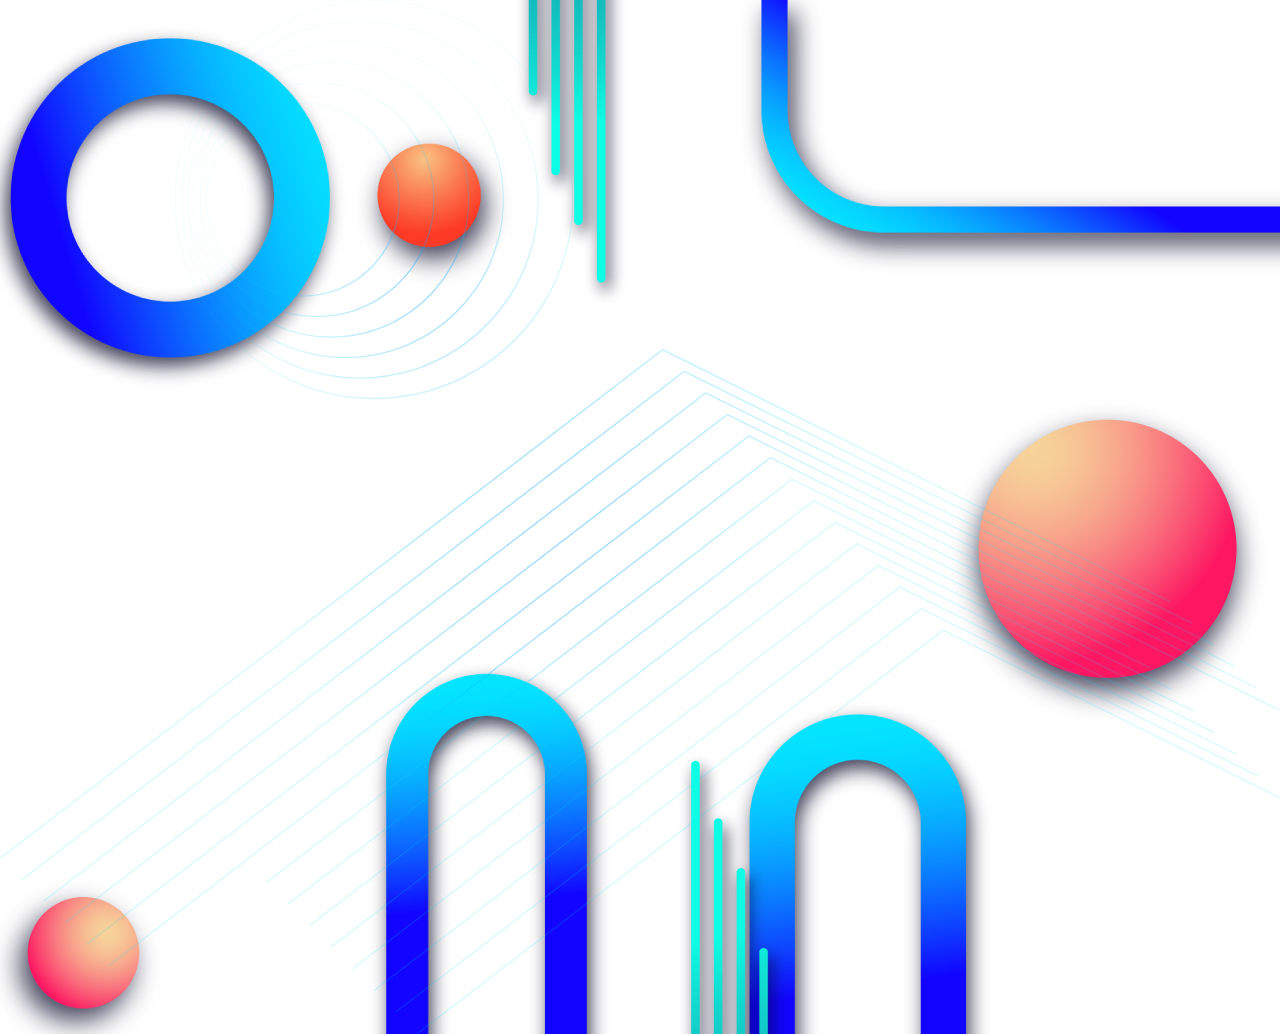
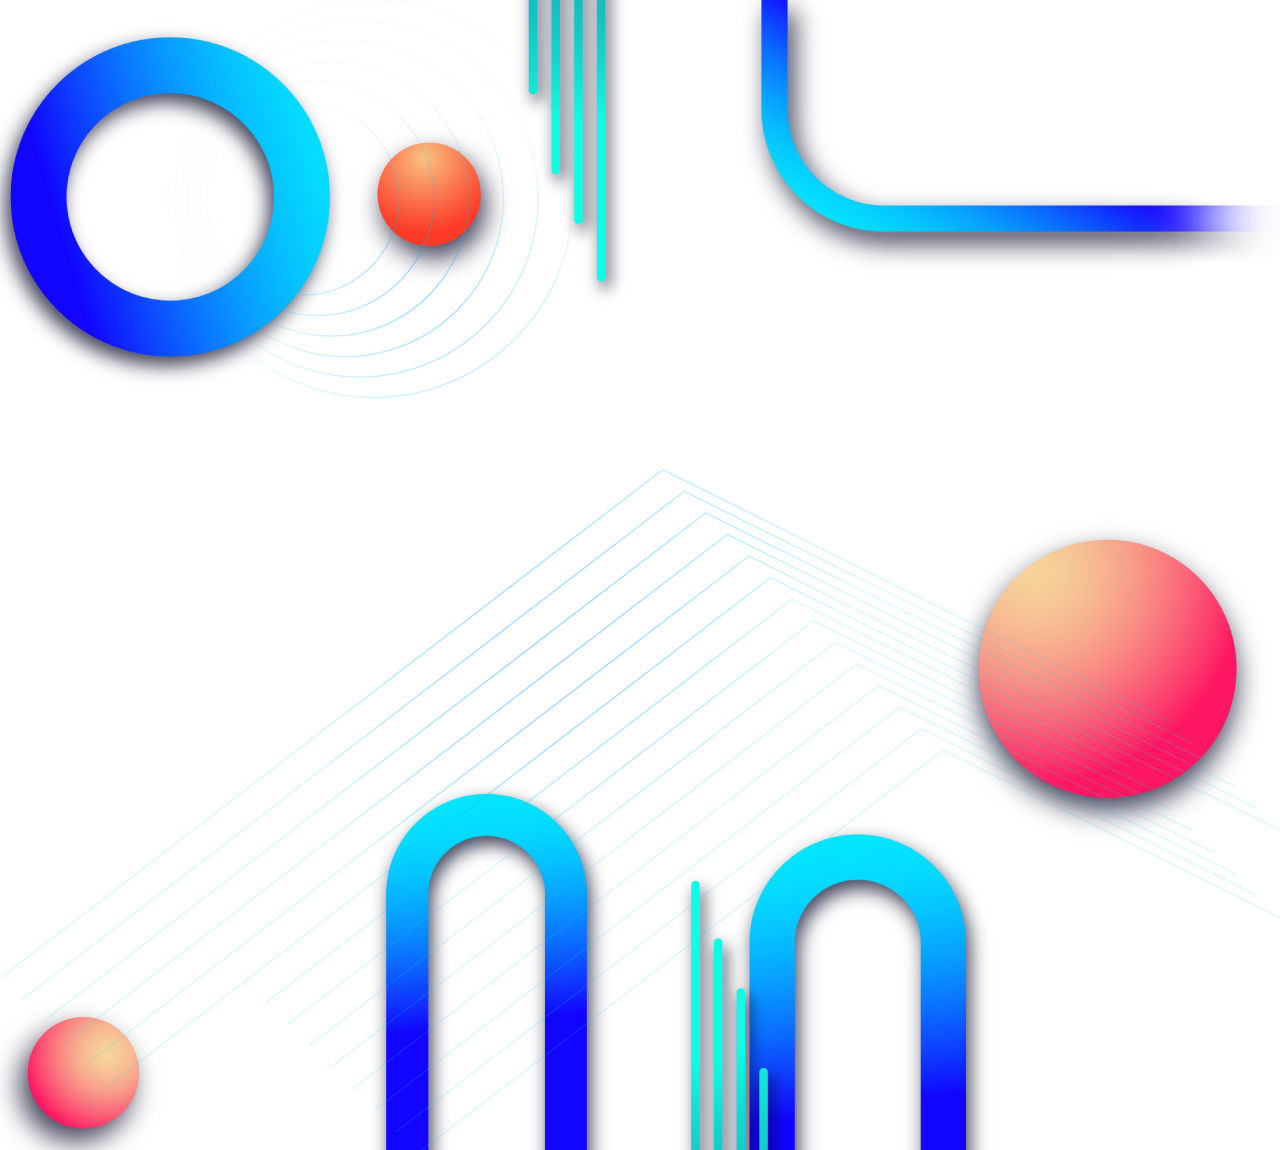
update bar countdown\n-added score

diff --git a/scenes/game.js b/scenes/game.js
@@ -77,18 +77,16 @@ export default class Game extends Phaser.Scene {
         this.add.bitmapText(this.width / 2, 30, 'atarismooth', 'Score', 25).setOrigin(.5)
         this.scoreTxt = this.add.bitmapText(this.width / 2, 60, 'atarismooth', '0', 28).setOrigin(.5)
 
-        this.barWBase = this.width / 2
-        this.barTsBox = this.add.graphics()
-        this.barTsBox.fillStyle(0xFFFFFF, .8)
-        this.barTsBox.fillRect((this.width / 4) - 4, 148, this.barWBase + 4, 52)
-        this.barTsBox.visible = false
-        this.barTs = this.add.tileSprite(this.width / 4, 150, this.barWBase, 48, 'bar').setOrigin(0)
+        this.barWBase = 320   
+        this.barTs = this.add.tileSprite(this.width / 4, 150, this.barWBase, 56, 'bar-countdown').setOrigin(0)
+        this.barTsFrame = this.add.image(this.width / 4, 150, 'bar-countdown-frame').setOrigin(0)
         this.barTs.visible = false
+        this.barTsFrame.visible = false
 
         let posX = this.width / 4
         let posXplus = 0
         let posY = this.height
-        let posYplus = 300
+        let posYplus = 400
 
         for (let i = 0; i < 4; i++) {
             if (i === 1 || i === 3)
@@ -96,7 +94,7 @@ export default class Game extends Phaser.Scene {
             else if (i === 2)
                 posXplus = 0
             if (i > 1)
-                posYplus = 120
+                posYplus = 220
 
             let resultBtn = this.add.image(posX + posXplus + (i % 2 ? -30 : 30), posY - posYplus, 'button-square').setOrigin(.5).setInteractive({ cursor: 'pointer' })
             resultBtn.setScale(1, .8)
@@ -171,16 +169,16 @@ export default class Game extends Phaser.Scene {
                 this.gamePlay.dificultyLevel += 1
                 this.gameCountdown = this.gamePlay.gameCountdownBase
                 // increase dificulty
-                if (this.gamePlay.dificultyLevel < 70)
-                    this.barTs.setTint("0x00FF00")
-                else if (this.gamePlay.dificultyLevel >= 70 && this.gamePlay.dificultyLevel < 120)
-                    this.barTs.clearTint()
-                else
-                    this.barTs.setTint("0xDC143C")
+                // if (this.gamePlay.dificultyLevel < 70)
+                //     this.barTs.setTint("0x00FF00")
+                // else if (this.gamePlay.dificultyLevel >= 70 && this.gamePlay.dificultyLevel < 120)
+                //     this.barTs.clearTint()
+                // else
+                //     this.barTs.setTint("0xDC143C")
 
                 this.barTs.width = this.barWBase
                 this.barTs.visible = true
-                this.barTsBox.visible = true
+                this.barTsFrame.visible = true
             }
 
             // game countdown

diff --git a/scenes/preload.js b/scenes/preload.js
@@ -20,9 +20,10 @@ export default class Preload extends Phaser.Scene {
         this.load.image("button", "assets/images/button.png")
         this.load.image("button1", "assets/images/button1.png")
         this.load.image("button-square", "assets/images/button-square.png")
-        this.load.image("counterclockwide-arrow", "assets/images/counterclockwide-arrow.png")        
+        this.load.image("counterclockwide-arrow", "assets/images/counterclockwide-arrow.png")
         this.load.image("numbers", "assets/images/numbers.png")
-        this.load.image("bar", "assets/images/bar.png")
+        this.load.image("bar-countdown", "assets/images/bar-countdown.png")
+        this.load.image("bar-countdown-frame", "assets/images/bar-countdown-frame.png")
         this.load.image("reload", "assets/images/reload.png")
         this.load.image("background", "assets/images/background.png")
         this.load.image("background2", "assets/images/background2.png")
@@ -103,7 +104,7 @@ export default class Preload extends Phaser.Scene {
     }
 
     create() {
-        this.add.image(this.game.screenSize.width / 2, this.game.screenSize.height / 2, "logo").setOrigin(.5)
+        this.add.image(this.game.screenSize.width / 2, this.game.screenSize.height / 2, "logo").setOrigin(.5).setScale(.5)
         // HANDLER SCENE
         if (this.game.debugMode)
             this.add.image(0, 0, "guide").setOrigin(0).setDepth(1)

diff --git a/scenes/menu.js b/scenes/menu.js
@@ -47,6 +47,8 @@ export default class Menu extends Phaser.Scene {
         // GAME OBJECTS  
         this.add.image(this.width / 2, this.height / 2, "background2").setOrigin(.5)
         this.add.image(this.width / 2, this.height / 2, "background3").setOrigin(.5).alpha = .2
+        let currentScore = parseInt(localStorage.getItem('score')) || 0
+        this.add.bitmapText(this.width / 2, 20, "atarismooth", "Max Score : " + currentScore, 18, 1).setOrigin(.5)
 
         this.dificultyBtnGrp = this.add.group()
         this.dificultyTxtGrp = this.add.group()

diff --git a/scenes/hub.js b/scenes/hub.js
@@ -85,7 +85,7 @@ export default class Hub extends Phaser.Scene {
             })
         }
 
-        this.creditsTxt = this.add.text(this.width / 2, this.height - 30, 'Luderix Games 2021', { fontFamily: 'Arial', fontSize: '25px' }).setOrigin(.5).setDepth(1)
+        this.creditsTxt = this.add.text(this.width / 2, this.height - 30, 'Shimozurdo Games 2021', { fontFamily: 'Arial', fontSize: '25px' }).setOrigin(.5).setDepth(1)
         this.creditsTxt.visible = false
         this.scale.on("resize", this.resize, this)
     }

diff --git a/gameplay/countdown.math.js b/gameplay/countdown.math.js
@@ -28,10 +28,14 @@ function generateMathProblem() {
 }
 
 function chooseSolution(solution) {
-    if (this.gamePlay.data.solution === parseInt(solution))
+    if (this.gamePlay.data.solution === parseInt(solution)) {
         return true
-    else
+    } else {
+        let currentScore = parseInt(localStorage.getItem('score')) || 0
+        if (this.gamePlay.score > currentScore)
+            localStorage.setItem('score', this.gamePlay.score);
         return false
+    }
 }
 
 function lose() {

diff --git a/gameplay/game.settings.js b/gameplay/game.settings.js
@@ -10,7 +10,7 @@ function resetGamePlay() {
         pause: 0,
         pauseByMessage: 0,
         stepTutorial: -1,
-        initialCountdown: 3000,
+        initialCountdown: 0,
         mathProblemExist: false,
         status: constant.statusGame.STOP,
         dificulty: 0,

diff --git a/main.js b/main.js
@@ -36,7 +36,7 @@ const config = {
 
 const game = new Phaser.Game(config);
 
-game.debugMode = false;
+game.debugMode = true;
 game.embedded = true; // game is embedded into a html iframe/object
 
 game.screenSize = {
